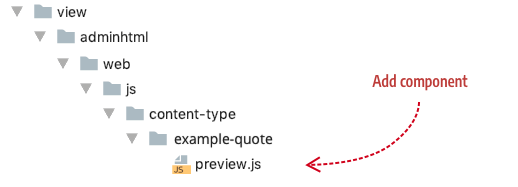
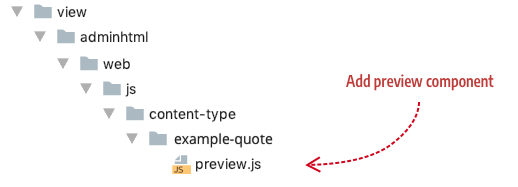
MC-6270: Add docs for content type components
Completed first draft for review

Changed region(s): [[0.6486, 0.4011, 0.9575, 0.4813]]

diff --git a/docs/create-basic-content-type/step-3-add-components.md b/docs/create-basic-content-type/step-3-add-components.md
@@ -5,21 +5,34 @@ The development of this tutorial is currently **IN PROGRESS**.
 
 ***
 
-Components are the JavaScript files that define the behaviors of your content type when they appear on the stage in the Admin UI (using the `preview.js` component) and in the storefront (using the `master.js` component). As such, they are complementary to the templates you added previously in Step 2, acting as the view models to the template's views. 
+In this step, we will create a preview component in order to show you how to customize the Quote options menu.
+
+## About components
+
+Components are the JavaScript files that define the behaviors of your content type when they appear on the stage in the Admin UI (using the `preview.js` component) and in the storefront (using the `master.js` component). As such, they are complementary to the templates you added previously in Step 2, acting as the view models to the template's views.
+
+Custom component files are completely optional. If they are not added to your content type, Page Builder will use these defaults:
+
+- Default preview component: `Magento_PageBuilder/js/content-type/preview`
+- Default master component: `Magento_PageBuilder/js/content-type/master`
+
+Reasons for adding your own preview component include customizing options menus and adding user-interactivity that your content type needs to fulfill its function when displayed on the Admin stage. Adding your own master component is necessary if you want to... **[Reviewer: please give some examples of when custom master components might be necessary.]**
 
 ## Component conventions
 
-Discuss the naming convention of the preview.js and master.js files, similar to the naming convention for the preview.html and master.html template files.
+The conventions for naming your components and adding them to your module are as follows:
 
-These component files are completely optional. Among the reasons for adding your own component is to customize the options menu in the Admin preview. That's what we will do for our Quote content type.
+- Your preview component must be named `preview.js` and placed here in your module (`view/adminhtml/web/js/content-type/example-quote/`):
 
-## Add component directories
+  ![Create config file](../images/step3-add-component.png)
 
-The directory structure for your Quote components should look like this (`view/adminhtml/web/js/content-type/example-quote/`):
+- Your master component must be named `master.js` and placed here in your module (`view/frontend/web/js/content-type/example-quote/`):
 
-![Create config file](../images/step3-add-component.png)
+  ![Create config file](../images/step3-add-master-component.png)
 
-  
+We will not create a master component for our Quote example, but the location is given here if you need to include one for more complex content types.
+
+Before continuing, add the preview component file (``preview.js`) to your `PageBuilderQuote` module within the directory structure noted.
 
 ## Component configuration
 
@@ -38,158 +51,134 @@ In your configuration file, reference your Admin `preview_component` (`preview.j
 </config>
 ```
 
-The following table describes each component-related attribute from the Quote configuration.
+A description of each component-related attribute from the Quote configuration follows:
 
 | Attribute           | Description                                                  |
 | ------------------- | ------------------------------------------------------------ |
 | `component`         | There are two component types to choose from: `content-type` and `content-type-collection`. Use `Magento_PageBuilder/js/content-type` for static content types that do not have children (like our Quote). Use `Magento_PageBuilder/js/content-type-collection` for content types that can contain children (container content types). |
-| `preview_component` | Optional. The `preview.js` file provides rendering logic to the Admin preview template. If your content type does not require any changes to the standard option menu (shown on mouseover) for a content type or other user-interactivity in the Admin, you can omit this attribute from the the `type` element. When you omit the attribute, Page Builder will use `Magento_PageBuilder/js/content-type/preview` by default. |
+| `preview_component` | Optional. The `preview.js` file provides rendering logic to the Admin preview template. If your content type does not require any changes to Page Builder's standard rendering logic, you can omit this attribute from the the `type` element. When you omit the attribute, Page Builder will use `Magento_PageBuilder/js/content-type/preview` by default.<br /><br />However, if you want to make changes to the option menu for your content type, or other customize other user-interactivity in the Admin, you need to create your own preview component as we have done for the Quote content type. |
 | `master_component`  | Optional. The `master.js` file provides rendering logic to the master format storefront template. As with the `preview_component`, if your content type does not require any specific user-interactivity or other behavior when it's displayed in the storefront, you can simply omit this attribute from the the `type` element. When you omit the attribute, Page Builder will use `Magento_PageBuilder/js/content-type/master` by default. <br /><br />In the Quote configuration, the `master_component` attribute is only included for discussion. It simply points to the Page Builder default `master.js` component that would be used the attribute was omitted. |
 
 ## Quote `preview_component`
 
-The Quote `preview_component`  (`preview.js`) is shown here in full, followed by an explanation of how the component is used in the Quote.
+The Quote `preview_component`  (`preview.js`) example is shown here in full for you to copy into your `preview.js` file, followed by an explanation of its key parts. 
 
 ```js
 define([
   'Magento_PageBuilder/js/content-type/preview',
-	], function (PreviewBase) {
+], function (PreviewBase) {
   'use strict';
-  
   var $super;
 
   function Preview(parent, config, stageId) {
     PreviewBase.call(this, parent, config, stageId);
   }
+
   Preview.prototype = Object.create(PreviewBase.prototype);
   $super = PreviewBase.prototype;
 
   Preview.prototype.retrieveOptions = function retrieveOptions() {
     var options = $super.retrieveOptions.call(this, arguments);
-    console.log(options);
-    
+    //console.log(options);
+
+    // Change option menu title
+    options.title.preview.config.label = "Quote Menu";
+
+    // Change option menu icons
+    options.remove.icon = "<i class='icon-admin-pagebuilder-error'></i>";
+
+    // Change tooltips
+    options.edit.title = "Open Editor";
+    options.remove.title = "Delete";
+    // options.move.title = "Move";
+    // options.duplicate.title = "Duplicate";
+
     // Remove menu options
     // delete options.move;
     // delete options.duplicate;
     // delete options.edit;
     // delete options.remove;
 
-    // options.edit.preview.config.icon = "<i class='icon-pagebuilder-copy'></i>";
-    // options.edit.config.icon = "<i class='icon-pagebuilder-copy'></i>";
-    // options.edit.icon._latestValue = "<i class='icon-pagebuilder-copy'></i>";
-
-    // Change option menu icons
-    // options.edit.icon = "<i class='icon-pagebuilder-copy'></i>";
-
-    // Change option menu label
-    // options.title.preview.config.label = "title.preview.config.label"; // works
-    // options.title.title = "title.title"; // doesn't work
-
-    // Change tooltips
-    options.move.title = "Drag";
-    options.duplicate.title = "Copy";
-    options.remove.title = "Delete";
-    options.edit.title = "Open Editor";
-
     return options;
   };
-  //
-  // Preview.prototype.isContainer = function () {
-  //     return false;
-  // };
-
   return Preview;
 });
 ```
 
-### Extend from Page Builder preview.js
+### Extend from `Preview`
 
-dasdasd
+The first thing we do in our preview component is extend Page Builder's `Preview` class (`magento2-page-builder/app/code/Magento/PageBuilder/view/adminhtml/web/ts/js/content-type/preview.ts`) by declaring it as a dependency and calling it from the preview component's constructor as follows:
 
 ```js
 define([
   'Magento_PageBuilder/js/content-type/preview',
-	], function (PreviewBase) {
+], function (PreviewBase) {
   'use strict';
-  
   var $super;
 
   function Preview(parent, config, stageId) {
     PreviewBase.call(this, parent, config, stageId);
   }
+
   Preview.prototype = Object.create(PreviewBase.prototype);
   $super = PreviewBase.prototype;
 ```
 
+You don't have to extend `Preview` this way, but if you do, you get access to both its public and protected functions. In our Quote example, we need access to one protected function, discussed next.
 
+### Customize the options menu
 
-### Manipulate the options menu
+Our goal for the Quote preview component is to customize the default Page Builder options menu for a content type, as shown here:
 
-sdfsdf
+![Create config file](../images/options-menu-default.png)
 
-```js
-  Preview.prototype.retrieveOptions = function retrieveOptions() {
-    var options = $super.retrieveOptions.call(this, arguments);
-    
-    return options;
-  };
-```
-
-
-
-#### Remove menu options
-
-lsakd fjlsadfkj
+To do this, we need to override the protected `retrieveOptions()` function from the `Preview` class so we can change various options as shown here: 
 
 ```js
-// Remove menu options
-delete options.move;
-delete options.duplicate;
-delete options.edit;
-delete options.remove;
+Preview.prototype.retrieveOptions = function retrieveOptions() {
+  var options = $super.retrieveOptions.call(this, arguments);
+  //console.log(options);
+
+  // Change option menu title
+  options.title.preview.config.label = "Quote Menu";
+  
+  // Change option menu icons
+  options.remove.icon = "<i class='icon-admin-pagebuilder-error'></i>";
+
+  // Change tooltips
+  options.edit.title = "Open Editor";
+  options.remove.title = "Delete";
+  // options.move.title = "Move";
+  // options.duplicate.title = "Duplicate";
+
+  // Remove menu options
+  // delete options.move;
+  // delete options.duplicate;
+  // delete options.edit;
+  // delete options.remove;
+
+  return options;
+};
 ```
 
+In the preceding code, we made changes to the options menu title, icons, and tooltips. You can also remove options from the menu. For example, if you don't want end-users to move or duplicate your content type, you can remove those options from your menu using `delete options.move` and `delete options.duplicate` as shown commented out in the code.
 
+![Create config file](../images/options-menu-custom.png)
 
-#### Change option menu icons
+{: .bs-callout .bs-callout-info }
+Even though you can change the base option menu properties as described, we suggest you stick the the default options as much as possible to provide end-users with a consistent experience across Magento's content types and other third-party content types that are included as time goes on.
 
-sdfsdfsdf
+### Other changes
 
-```js
-// Change option menu icons
-options.edit.icon = "<i class='icon-pagebuilder-copy'></i>";
-```
+Other changes and additions you can make to your preview component include:
 
-
-
-#### Change option menu title
-
-skdjflsdfjs
-
-```js
-// Change option menu title
-options.title.preview.config.label = "title.preview.config.label";
-```
-
-
-
-#### Change option menu tooltips
-
-lsdfkjsdklfj
-
-```js
-// Change tooltips
-options.move.title = "Drag";
-options.duplicate.title = "Copy";
-options.remove.title = "Delete";
-options.edit.title = "Open Editor";
-```
+**[Reviewer: Please include a list of other changes or additions that developers might make in their own preview component]**
 
 
 
 ## Quote `master_component`
 
-As mentioned previously, our Quote content type has no need for a master.js component file. Instead, we are using Page Builder's default master component file: `Magento_PageBuilder/js/content-type/master`.
+As mentioned previously, our Quote content type has no need for a master.js component file. Instead, we are using Page Builder's default master component file: `Magento_PageBuilder/js/content-type/master`. More information on master components and their usage can be found **[where?]** 
 
 ## Next
 

diff --git a/docs/configurations/option-menu-configurations.md b/docs/configurations/option-menu-configurations.md
@@ -1,4 +1,8 @@
 # Option menu configurations
 
-{: .bs-callout .bs-callout-info }
+---
+
 The development of this topic is currently **IN PROGRESS**.
+
+---
+
